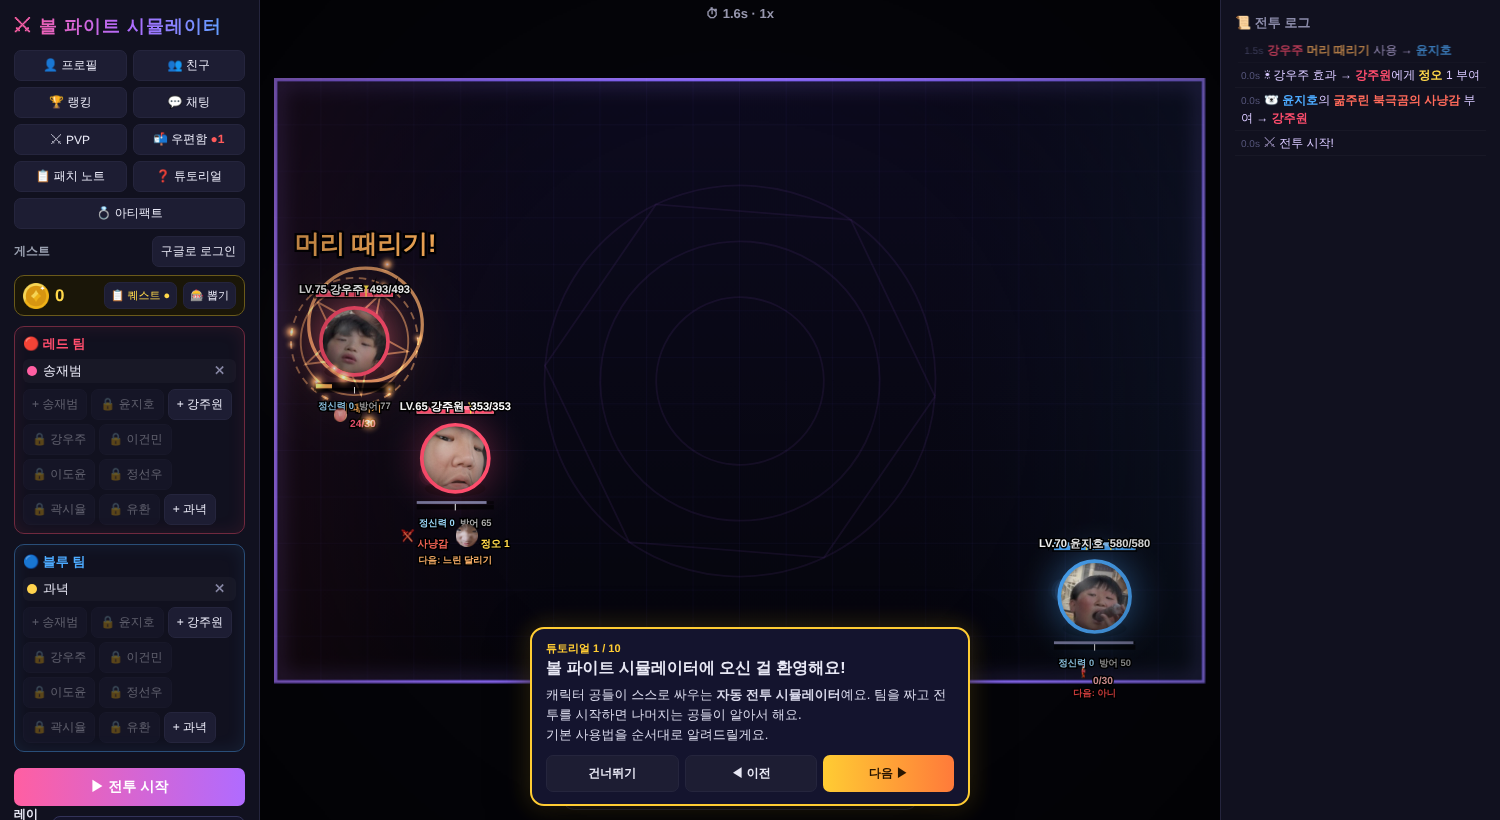
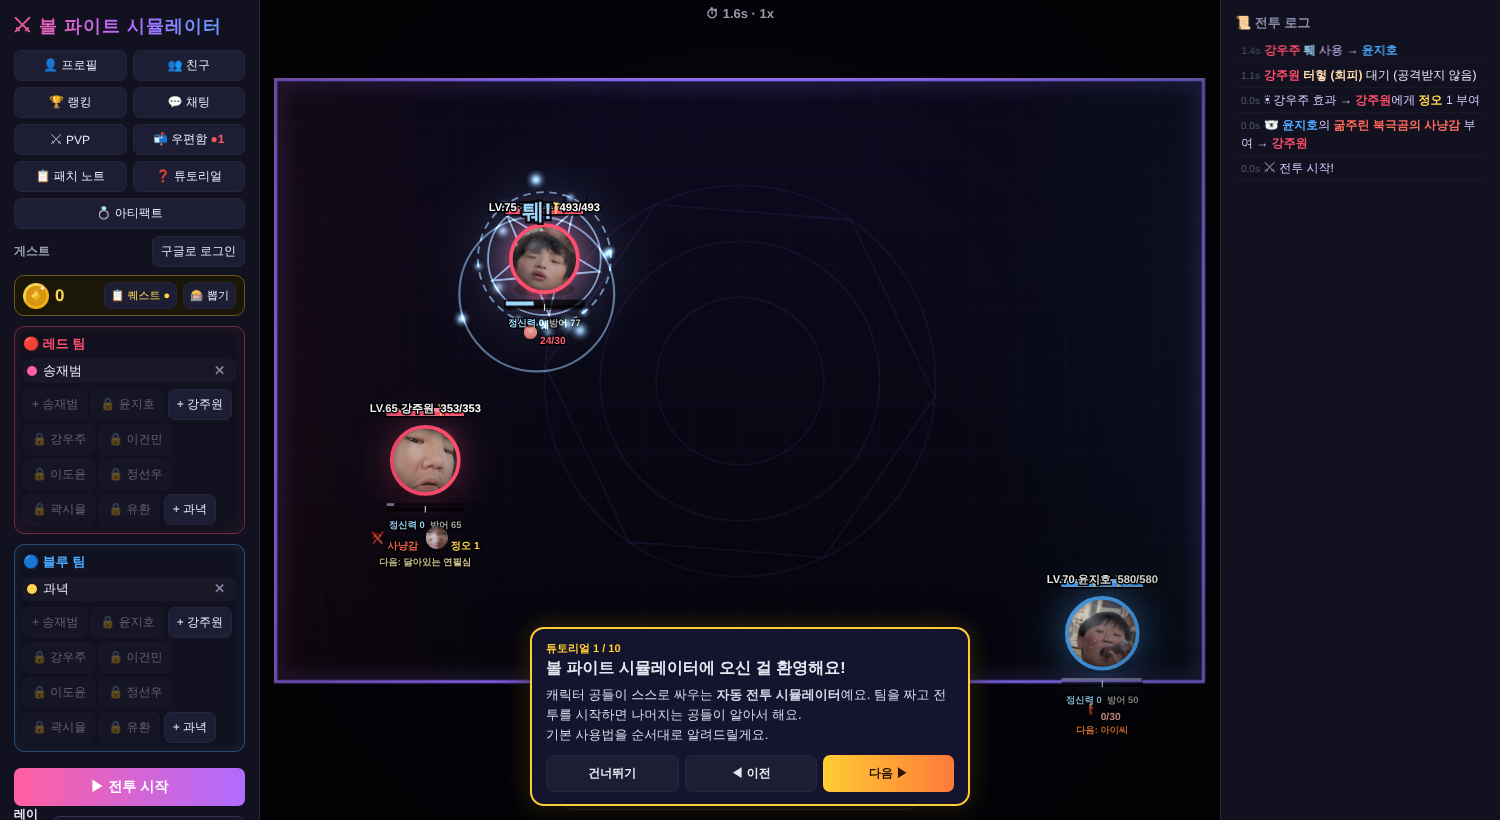
Cerberus bite VFX remake: three hellhound jaws lunge and snap
Claude-Session: https://claude.ai/code/session_011zGi9gVJQ1Coo7UsSWyUEJ

Changed region(s): [[0.184, 0.2134, 0.4293, 0.7012], [0.828, 0.0305, 0.9813, 0.2134], [0.6747, 0.6402, 0.7667, 0.9146]]

diff --git a/index.html b/index.html
@@ -2865,7 +2865,7 @@ function hitCoin(u, t, pow, i, heads, crit) {
   } else if (f.type === 'cerberus') {
     // 세 머리가 동시에 물어뜯음: 위아래 이빨이 맞물리며 피가 튐
     const ang = Math.atan2(t.y - f.y, t.x - f.x), big = u.sk === 'cerBite';
-    slashes.push({ bite: true, x: t.x, y: t.y, tr: t.r, ang, big, life: 0.55, max: 0.55 });
+    slashes.push({ bite: true, x: t.x, y: t.y, tr: t.r, ang, big, life: 0.8, max: 0.8 });
     for (let k = 0; k < Math.round(26 * QUALITY) + 6; k++) { const a = ang + rand(-1.3, 1.3), sp = rand(200, 620); particles.push({ x: t.x, y: t.y, vx: Math.cos(a) * sp, vy: Math.sin(a) * sp - 60, life: rand(0.35, 0.7), max: 0.7, size: rand(3, 8), color: Math.random() < 0.7 ? '#c8001a' : '#ff4a5a', drag: 0.93, g: 520, kind: 'glow', rot: 0 }); }
     shake = Math.max(shake, big ? 18 : 12); if (big) doFlash('#c8001a', 0.25);
   } else if (f.type === 'targetking') {
@@ -4430,22 +4430,60 @@ function render() {
     const k = sl.life / sl.max, p = 1 - k, e2 = 1 - Math.pow(1 - p, 3);
     const sweep = 2.4, a0 = sl.ang - sl.dir * sweep / 2, a1 = a0 + sl.dir * sweep * e2; // 휘두르는 각도
     if (sl.bite) {
-      // 세 쌍의 턱이 위아래에서 맞물림
-      const close = Math.min(1, p / 0.3), fade = p < 0.3 ? 1 : 1 - (p - 0.3) / 0.7;
+      // 지옥견의 세 머리: 벌린 아가리(불타는 목구멍)로 돌진 → 콱 맞물림 → 송곳니 자국 · 피 · 붉은 충격
+      const SN = 0.34, lunge = Math.min(1, p / SN), snap = p < SN ? 0 : Math.min(1, (p - SN) / 0.66), fade = p < 0.55 ? 1 : 1 - (p - 0.55) / 0.45;
+      const op = p < SN * 0.55 ? Math.min(1, p / (SN * 0.25)) : Math.max(0, 1 - (p - SN * 0.55) / (SN * 0.45)); // 벌림 → 닫힘
+      const L = sl.tr * (sl.big ? 1.55 : 1.3), jit = p > SN && p < SN + 0.12 ? (Math.random() - 0.5) * 6 : 0;
+      if (!sl.snapped && p >= SN) { sl.snapped = true; // 맞물리는 순간 파편
+        for (let k = 0; k < Math.round(18 * QUALITY) + 6; k++) { const aa = sl.ang + rand(-1.6, 1.6), sp = rand(150, 520); particles.push({ x: sl.x, y: sl.y, vx: Math.cos(aa) * sp, vy: Math.sin(aa) * sp - 80, life: rand(0.4, 0.8), max: 0.8, size: rand(2, 5), color: Math.random() < 0.5 ? '#ff7a2a' : '#ffd060', drag: 0.94, g: -60, kind: 'spark', rot: 0 }); }
+        for (let k = 0; k < 6; k++) particles.push({ x: sl.x + rand(-sl.tr, sl.tr), y: sl.y + rand(-sl.tr, sl.tr), vx: rand(-40, 40), vy: rand(-90, -30), life: rand(0.6, 1), max: 1, size: rand(16, 28), color: '#3a0608', drag: 0.96, g: 0, kind: 'smoke', a: 0.55, rot: 0 }); }
       ctx.save();
-      for (let h = -1; h <= 1; h++) {
-        const a = sl.ang + h * 0.9, cx = sl.x + Math.cos(sl.ang + Math.PI / 2) * h * sl.tr * 0.9, cy = sl.y + Math.sin(sl.ang + Math.PI / 2) * h * sl.tr * 0.9;
-        ctx.save(); ctx.translate(cx, cy); ctx.rotate(a); const W = sl.tr * (sl.big ? 1.15 : 0.95), gap = sl.tr * 1.4 * (1 - close * close) + 2;
-        for (const sgn of [-1, 1]) {
-          const y0 = sgn * gap; ctx.globalAlpha = fade;
-          const g = ctx.createLinearGradient(0, y0 + sgn * 26, 0, y0); g.addColorStop(0, 'rgba(60,0,10,0)'); g.addColorStop(1, '#3a0008');
-          ctx.fillStyle = g; ctx.beginPath(); ctx.ellipse(0, y0 + sgn * 12, W, 16, 0, 0, TAU); ctx.fill();
-          ctx.fillStyle = '#fff2e8'; ctx.strokeStyle = '#5a0010'; ctx.lineWidth = 1.2;
-          for (let k = -3; k <= 3; k++) { const x0 = k * W / 3.6, len = (k === -3 || k === 3) ? 22 : 14; ctx.beginPath(); ctx.moveTo(x0 - 6, y0); ctx.lineTo(x0, y0 - sgn * len); ctx.lineTo(x0 + 6, y0); ctx.closePath(); ctx.fill(); ctx.stroke(); }
+      // 붉은 열기 오라
+      ctx.globalCompositeOperation = 'lighter'; ctx.globalAlpha = 0.55 * fade * (0.4 + lunge * 0.6); ctx.drawImage(glow('#ff2a1a'), sl.x - sl.tr * 3, sl.y - sl.tr * 3, sl.tr * 6, sl.tr * 6); ctx.globalCompositeOperation = 'source-over';
+      const heads = [[-1, 0.62, 0.92], [0, 0, 1.1], [1, -0.62, 0.92]];
+      for (const [h, da, sc] of heads) {
+        const a = sl.ang + da, back = L * (1.25 + (1 - lunge * lunge) * 1.6), dx = Math.cos(a), dy = Math.sin(a);
+        const hx = sl.x - dx * back + jit, hy = sl.y - dy * back + jit; // 아가리 경첩 위치(뒤쪽)
+        ctx.save(); ctx.translate(hx, hy); ctx.rotate(a); ctx.scale(sc, sc); ctx.globalAlpha = fade;
+        const th = op * 0.62 + 0.02, J = L * 1.35; // 벌어진 각도, 턱 길이
+        // 목구멍: 지옥불
+        if (th > 0.06) { const g = ctx.createRadialGradient(J * 0.25, 0, 0, J * 0.25, 0, J * 0.8); g.addColorStop(0, '#fff0a0'); g.addColorStop(0.35, '#ff6a10'); g.addColorStop(0.75, '#a0000a'); g.addColorStop(1, 'rgba(60,0,0,0)');
+          ctx.fillStyle = g; ctx.beginPath(); ctx.moveTo(0, 0); ctx.lineTo(Math.cos(-th) * J, Math.sin(-th) * J); ctx.quadraticCurveTo(J * 1.05, 0, Math.cos(th) * J, Math.sin(th) * J); ctx.closePath(); ctx.fill(); }
+        for (const sg of [-1, 1]) { // -1 윗턱, +1 아래턱
+          ctx.save(); ctx.rotate(sg * th);
+          // 턱 몸통
+          const jg = ctx.createLinearGradient(0, 0, 0, sg * -L * 0.55); jg.addColorStop(0, '#5a0a12'); jg.addColorStop(1, '#12020a');
+          ctx.fillStyle = jg; ctx.strokeStyle = '#ff3a2a'; ctx.lineWidth = 2; ctx.shadowColor = '#ff2a10'; ctx.shadowBlur = 12;
+          ctx.beginPath(); ctx.moveTo(-J * 0.15, 0); ctx.lineTo(J, 0);
+          ctx.quadraticCurveTo(J * 1.08, -sg * L * 0.12, J * 0.92, -sg * L * 0.22);
+          ctx.bezierCurveTo(J * 0.6, -sg * L * 0.38, J * 0.2, -sg * L * (sg < 0 ? 0.62 : 0.4), -J * 0.15, -sg * L * (sg < 0 ? 0.5 : 0.32));
+          ctx.closePath(); ctx.fill(); ctx.stroke(); ctx.shadowBlur = 0;
+          // 잇몸 선
+          ctx.strokeStyle = '#c0102a'; ctx.lineWidth = 3; ctx.beginPath(); ctx.moveTo(0, 0); ctx.lineTo(J * 0.98, 0); ctx.stroke();
+          // 이빨: 끝쪽 큰 송곳니 + 톱니
+          ctx.fillStyle = '#fff4e6'; ctx.strokeStyle = '#4a0008'; ctx.lineWidth = 1;
+          const N = 7;
+          for (let k = 0; k < N; k++) { const x0 = J * (0.1 + k * 0.84 / (N - 1)), canine = k === N - 2, w = canine ? 9 : 5.5, len = canine ? L * 0.42 : L * (0.14 + 0.05 * (k % 2));
+            const tg = ctx.createLinearGradient(x0, 0, x0, sg * len); tg.addColorStop(0, '#d8c8b8'); tg.addColorStop(0.6, '#fffaf0'); tg.addColorStop(1, canine && snap > 0 ? '#c8001a' : '#ffffff'); ctx.fillStyle = tg;
+            ctx.beginPath(); ctx.moveTo(x0 - w, 0); ctx.quadraticCurveTo(x0 - w * 0.2, sg * len * 0.6, x0 + w * 0.35, sg * len); ctx.quadraticCurveTo(x0 + w * 0.5, sg * len * 0.4, x0 + w, 0); ctx.closePath(); ctx.fill(); ctx.stroke(); }
+          ctx.restore();
         }
+        // 눈: 불타는 붉은 눈
+        if (true) { const ex = J * 0.05, ey = -L * 0.42; ctx.globalCompositeOperation = 'lighter'; ctx.drawImage(glow('#ff3a10'), ex - 16, ey - 16, 32, 32); ctx.fillStyle = '#ffe08a'; ctx.beginPath(); ctx.ellipse(ex, ey, 6, 2.6, -0.3, 0, TAU); ctx.fill(); ctx.globalCompositeOperation = 'source-over'; }
         ctx.restore();
       }
-      if (p > 0.28) { const q = (p - 0.28) / 0.72; ctx.globalCompositeOperation = 'lighter'; ctx.globalAlpha = (1 - q) * 0.9; ctx.drawImage(glow('#ff1a3a'), sl.x - sl.tr * 2.5, sl.y - sl.tr * 2.5, sl.tr * 5, sl.tr * 5); ctx.strokeStyle = '#ff3a4a'; ctx.lineWidth = 4 * (1 - q); ctx.beginPath(); ctx.arc(sl.x, sl.y, sl.tr * (1.2 + q * 1.8), 0, TAU); ctx.stroke(); }
+      if (snap > 0) {
+        const q = snap; ctx.globalCompositeOperation = 'lighter';
+        // 맞물림 섬광 + 충격파 2겹
+        ctx.globalAlpha = Math.max(0, 1 - q * 3.5); ctx.drawImage(glow('#ffffff'), sl.x - sl.tr * 2, sl.y - sl.tr * 2, sl.tr * 4, sl.tr * 4);
+        ctx.globalAlpha = (1 - q) * 0.9; ctx.drawImage(glow('#ff1a2a'), sl.x - sl.tr * 3.2, sl.y - sl.tr * 3.2, sl.tr * 6.4, sl.tr * 6.4);
+        for (const [rr, col, lw] of [[1.1 + q * 2.6, '#ff3a2a', 6], [0.8 + q * 1.6, '#ffb060', 3]]) { ctx.strokeStyle = col; ctx.lineWidth = lw * (1 - q) + 0.5; ctx.beginPath(); ctx.arc(sl.x, sl.y, sl.tr * rr, 0, TAU); ctx.stroke(); }
+        // 송곳니 자국 (세 쌍)
+        ctx.globalCompositeOperation = 'source-over'; ctx.globalAlpha = Math.min(1, (1 - q) * 1.6);
+        for (const [h, da] of [[-1, 0.62], [0, 0], [1, -0.62]]) { const a = sl.ang + da + Math.PI, px = sl.x + Math.cos(a) * sl.tr * 0.35, py = sl.y + Math.sin(a) * sl.tr * 0.35;
+          for (const s2 of [-1, 1]) { const ox = px + Math.cos(a + Math.PI / 2) * s2 * sl.tr * 0.32, oy = py + Math.sin(a + Math.PI / 2) * s2 * sl.tr * 0.32;
+            ctx.fillStyle = '#5a0008'; ctx.beginPath(); ctx.ellipse(ox, oy, 5, 3, a, 0, TAU); ctx.fill(); ctx.fillStyle = '#e0001e'; ctx.beginPath(); ctx.ellipse(ox, oy + 4 * q * 3, 2.4, 3 + q * 8, 0, 0, TAU); ctx.fill(); } }
+      }
       ctx.restore(); continue;
     }
     if (sl.reticle) {
@@ -5435,6 +5473,7 @@ const UPG_FX = {
 // ================== 패치 노트 ==================
 // 업데이트할 때마다 맨 위에 항목을 추가 → 처음 접속할 때 자동으로 한 번 표시됨
 const PATCH_NOTES = [
+  { v: '7.3', date: '2026-11-20', items: ['케로베로스 물어뜯기 이펙트 리메이크: 불타는 아가리를 벌린 세 머리가 돌진해 맞물림 · 송곳니 자국 · 피와 불티 · 붉은 충격파'] },
   { v: '7.2', date: '2026-11-20', items: ['레이드 보스 공격 이펙트 강화: 과녁의 왕(금빛 조준선 · 과녁 충격파) · 케로베로스(세 턱이 물어뜯음) · 강우주 - 암흑진화(어둠 촉수 · 붕괴) · 과거의 강주원(글리치 일격)'] },
   { v: '7.1', date: '2026-11-20', items: ['유환 공격 이펙트 변경: 노랗게 물든 송곳들이 진동하다 꽂힘 (인정합니노 · 도박수는 7개)'] },
   { v: '7.0', date: '2026-11-20', items: ['곽시율 주먹 이펙트 퀄리티 향상: 말아 쥔 손가락 · 엄지 · 입체 음영 · 보라 기운'] },

diff --git a/test/index.html b/test/index.html
@@ -2866,7 +2866,7 @@ function hitCoin(u, t, pow, i, heads, crit) {
   } else if (f.type === 'cerberus') {
     // 세 머리가 동시에 물어뜯음: 위아래 이빨이 맞물리며 피가 튐
     const ang = Math.atan2(t.y - f.y, t.x - f.x), big = u.sk === 'cerBite';
-    slashes.push({ bite: true, x: t.x, y: t.y, tr: t.r, ang, big, life: 0.55, max: 0.55 });
+    slashes.push({ bite: true, x: t.x, y: t.y, tr: t.r, ang, big, life: 0.8, max: 0.8 });
     for (let k = 0; k < Math.round(26 * QUALITY) + 6; k++) { const a = ang + rand(-1.3, 1.3), sp = rand(200, 620); particles.push({ x: t.x, y: t.y, vx: Math.cos(a) * sp, vy: Math.sin(a) * sp - 60, life: rand(0.35, 0.7), max: 0.7, size: rand(3, 8), color: Math.random() < 0.7 ? '#c8001a' : '#ff4a5a', drag: 0.93, g: 520, kind: 'glow', rot: 0 }); }
     shake = Math.max(shake, big ? 18 : 12); if (big) doFlash('#c8001a', 0.25);
   } else if (f.type === 'targetking') {
@@ -4431,22 +4431,60 @@ function render() {
     const k = sl.life / sl.max, p = 1 - k, e2 = 1 - Math.pow(1 - p, 3);
     const sweep = 2.4, a0 = sl.ang - sl.dir * sweep / 2, a1 = a0 + sl.dir * sweep * e2; // 휘두르는 각도
     if (sl.bite) {
-      // 세 쌍의 턱이 위아래에서 맞물림
-      const close = Math.min(1, p / 0.3), fade = p < 0.3 ? 1 : 1 - (p - 0.3) / 0.7;
+      // 지옥견의 세 머리: 벌린 아가리(불타는 목구멍)로 돌진 → 콱 맞물림 → 송곳니 자국 · 피 · 붉은 충격
+      const SN = 0.34, lunge = Math.min(1, p / SN), snap = p < SN ? 0 : Math.min(1, (p - SN) / 0.66), fade = p < 0.55 ? 1 : 1 - (p - 0.55) / 0.45;
+      const op = p < SN * 0.55 ? Math.min(1, p / (SN * 0.25)) : Math.max(0, 1 - (p - SN * 0.55) / (SN * 0.45)); // 벌림 → 닫힘
+      const L = sl.tr * (sl.big ? 1.55 : 1.3), jit = p > SN && p < SN + 0.12 ? (Math.random() - 0.5) * 6 : 0;
+      if (!sl.snapped && p >= SN) { sl.snapped = true; // 맞물리는 순간 파편
+        for (let k = 0; k < Math.round(18 * QUALITY) + 6; k++) { const aa = sl.ang + rand(-1.6, 1.6), sp = rand(150, 520); particles.push({ x: sl.x, y: sl.y, vx: Math.cos(aa) * sp, vy: Math.sin(aa) * sp - 80, life: rand(0.4, 0.8), max: 0.8, size: rand(2, 5), color: Math.random() < 0.5 ? '#ff7a2a' : '#ffd060', drag: 0.94, g: -60, kind: 'spark', rot: 0 }); }
+        for (let k = 0; k < 6; k++) particles.push({ x: sl.x + rand(-sl.tr, sl.tr), y: sl.y + rand(-sl.tr, sl.tr), vx: rand(-40, 40), vy: rand(-90, -30), life: rand(0.6, 1), max: 1, size: rand(16, 28), color: '#3a0608', drag: 0.96, g: 0, kind: 'smoke', a: 0.55, rot: 0 }); }
       ctx.save();
-      for (let h = -1; h <= 1; h++) {
-        const a = sl.ang + h * 0.9, cx = sl.x + Math.cos(sl.ang + Math.PI / 2) * h * sl.tr * 0.9, cy = sl.y + Math.sin(sl.ang + Math.PI / 2) * h * sl.tr * 0.9;
-        ctx.save(); ctx.translate(cx, cy); ctx.rotate(a); const W = sl.tr * (sl.big ? 1.15 : 0.95), gap = sl.tr * 1.4 * (1 - close * close) + 2;
-        for (const sgn of [-1, 1]) {
-          const y0 = sgn * gap; ctx.globalAlpha = fade;
-          const g = ctx.createLinearGradient(0, y0 + sgn * 26, 0, y0); g.addColorStop(0, 'rgba(60,0,10,0)'); g.addColorStop(1, '#3a0008');
-          ctx.fillStyle = g; ctx.beginPath(); ctx.ellipse(0, y0 + sgn * 12, W, 16, 0, 0, TAU); ctx.fill();
-          ctx.fillStyle = '#fff2e8'; ctx.strokeStyle = '#5a0010'; ctx.lineWidth = 1.2;
-          for (let k = -3; k <= 3; k++) { const x0 = k * W / 3.6, len = (k === -3 || k === 3) ? 22 : 14; ctx.beginPath(); ctx.moveTo(x0 - 6, y0); ctx.lineTo(x0, y0 - sgn * len); ctx.lineTo(x0 + 6, y0); ctx.closePath(); ctx.fill(); ctx.stroke(); }
+      // 붉은 열기 오라
+      ctx.globalCompositeOperation = 'lighter'; ctx.globalAlpha = 0.55 * fade * (0.4 + lunge * 0.6); ctx.drawImage(glow('#ff2a1a'), sl.x - sl.tr * 3, sl.y - sl.tr * 3, sl.tr * 6, sl.tr * 6); ctx.globalCompositeOperation = 'source-over';
+      const heads = [[-1, 0.62, 0.92], [0, 0, 1.1], [1, -0.62, 0.92]];
+      for (const [h, da, sc] of heads) {
+        const a = sl.ang + da, back = L * (1.25 + (1 - lunge * lunge) * 1.6), dx = Math.cos(a), dy = Math.sin(a);
+        const hx = sl.x - dx * back + jit, hy = sl.y - dy * back + jit; // 아가리 경첩 위치(뒤쪽)
+        ctx.save(); ctx.translate(hx, hy); ctx.rotate(a); ctx.scale(sc, sc); ctx.globalAlpha = fade;
+        const th = op * 0.62 + 0.02, J = L * 1.35; // 벌어진 각도, 턱 길이
+        // 목구멍: 지옥불
+        if (th > 0.06) { const g = ctx.createRadialGradient(J * 0.25, 0, 0, J * 0.25, 0, J * 0.8); g.addColorStop(0, '#fff0a0'); g.addColorStop(0.35, '#ff6a10'); g.addColorStop(0.75, '#a0000a'); g.addColorStop(1, 'rgba(60,0,0,0)');
+          ctx.fillStyle = g; ctx.beginPath(); ctx.moveTo(0, 0); ctx.lineTo(Math.cos(-th) * J, Math.sin(-th) * J); ctx.quadraticCurveTo(J * 1.05, 0, Math.cos(th) * J, Math.sin(th) * J); ctx.closePath(); ctx.fill(); }
+        for (const sg of [-1, 1]) { // -1 윗턱, +1 아래턱
+          ctx.save(); ctx.rotate(sg * th);
+          // 턱 몸통
+          const jg = ctx.createLinearGradient(0, 0, 0, sg * -L * 0.55); jg.addColorStop(0, '#5a0a12'); jg.addColorStop(1, '#12020a');
+          ctx.fillStyle = jg; ctx.strokeStyle = '#ff3a2a'; ctx.lineWidth = 2; ctx.shadowColor = '#ff2a10'; ctx.shadowBlur = 12;
+          ctx.beginPath(); ctx.moveTo(-J * 0.15, 0); ctx.lineTo(J, 0);
+          ctx.quadraticCurveTo(J * 1.08, -sg * L * 0.12, J * 0.92, -sg * L * 0.22);
+          ctx.bezierCurveTo(J * 0.6, -sg * L * 0.38, J * 0.2, -sg * L * (sg < 0 ? 0.62 : 0.4), -J * 0.15, -sg * L * (sg < 0 ? 0.5 : 0.32));
+          ctx.closePath(); ctx.fill(); ctx.stroke(); ctx.shadowBlur = 0;
+          // 잇몸 선
+          ctx.strokeStyle = '#c0102a'; ctx.lineWidth = 3; ctx.beginPath(); ctx.moveTo(0, 0); ctx.lineTo(J * 0.98, 0); ctx.stroke();
+          // 이빨: 끝쪽 큰 송곳니 + 톱니
+          ctx.fillStyle = '#fff4e6'; ctx.strokeStyle = '#4a0008'; ctx.lineWidth = 1;
+          const N = 7;
+          for (let k = 0; k < N; k++) { const x0 = J * (0.1 + k * 0.84 / (N - 1)), canine = k === N - 2, w = canine ? 9 : 5.5, len = canine ? L * 0.42 : L * (0.14 + 0.05 * (k % 2));
+            const tg = ctx.createLinearGradient(x0, 0, x0, sg * len); tg.addColorStop(0, '#d8c8b8'); tg.addColorStop(0.6, '#fffaf0'); tg.addColorStop(1, canine && snap > 0 ? '#c8001a' : '#ffffff'); ctx.fillStyle = tg;
+            ctx.beginPath(); ctx.moveTo(x0 - w, 0); ctx.quadraticCurveTo(x0 - w * 0.2, sg * len * 0.6, x0 + w * 0.35, sg * len); ctx.quadraticCurveTo(x0 + w * 0.5, sg * len * 0.4, x0 + w, 0); ctx.closePath(); ctx.fill(); ctx.stroke(); }
+          ctx.restore();
         }
+        // 눈: 불타는 붉은 눈
+        if (true) { const ex = J * 0.05, ey = -L * 0.42; ctx.globalCompositeOperation = 'lighter'; ctx.drawImage(glow('#ff3a10'), ex - 16, ey - 16, 32, 32); ctx.fillStyle = '#ffe08a'; ctx.beginPath(); ctx.ellipse(ex, ey, 6, 2.6, -0.3, 0, TAU); ctx.fill(); ctx.globalCompositeOperation = 'source-over'; }
         ctx.restore();
       }
-      if (p > 0.28) { const q = (p - 0.28) / 0.72; ctx.globalCompositeOperation = 'lighter'; ctx.globalAlpha = (1 - q) * 0.9; ctx.drawImage(glow('#ff1a3a'), sl.x - sl.tr * 2.5, sl.y - sl.tr * 2.5, sl.tr * 5, sl.tr * 5); ctx.strokeStyle = '#ff3a4a'; ctx.lineWidth = 4 * (1 - q); ctx.beginPath(); ctx.arc(sl.x, sl.y, sl.tr * (1.2 + q * 1.8), 0, TAU); ctx.stroke(); }
+      if (snap > 0) {
+        const q = snap; ctx.globalCompositeOperation = 'lighter';
+        // 맞물림 섬광 + 충격파 2겹
+        ctx.globalAlpha = Math.max(0, 1 - q * 3.5); ctx.drawImage(glow('#ffffff'), sl.x - sl.tr * 2, sl.y - sl.tr * 2, sl.tr * 4, sl.tr * 4);
+        ctx.globalAlpha = (1 - q) * 0.9; ctx.drawImage(glow('#ff1a2a'), sl.x - sl.tr * 3.2, sl.y - sl.tr * 3.2, sl.tr * 6.4, sl.tr * 6.4);
+        for (const [rr, col, lw] of [[1.1 + q * 2.6, '#ff3a2a', 6], [0.8 + q * 1.6, '#ffb060', 3]]) { ctx.strokeStyle = col; ctx.lineWidth = lw * (1 - q) + 0.5; ctx.beginPath(); ctx.arc(sl.x, sl.y, sl.tr * rr, 0, TAU); ctx.stroke(); }
+        // 송곳니 자국 (세 쌍)
+        ctx.globalCompositeOperation = 'source-over'; ctx.globalAlpha = Math.min(1, (1 - q) * 1.6);
+        for (const [h, da] of [[-1, 0.62], [0, 0], [1, -0.62]]) { const a = sl.ang + da + Math.PI, px = sl.x + Math.cos(a) * sl.tr * 0.35, py = sl.y + Math.sin(a) * sl.tr * 0.35;
+          for (const s2 of [-1, 1]) { const ox = px + Math.cos(a + Math.PI / 2) * s2 * sl.tr * 0.32, oy = py + Math.sin(a + Math.PI / 2) * s2 * sl.tr * 0.32;
+            ctx.fillStyle = '#5a0008'; ctx.beginPath(); ctx.ellipse(ox, oy, 5, 3, a, 0, TAU); ctx.fill(); ctx.fillStyle = '#e0001e'; ctx.beginPath(); ctx.ellipse(ox, oy + 4 * q * 3, 2.4, 3 + q * 8, 0, 0, TAU); ctx.fill(); } }
+      }
       ctx.restore(); continue;
     }
     if (sl.reticle) {
@@ -5436,6 +5474,7 @@ const UPG_FX = {
 // ================== 패치 노트 ==================
 // 업데이트할 때마다 맨 위에 항목을 추가 → 처음 접속할 때 자동으로 한 번 표시됨
 const PATCH_NOTES = [
+  { v: '7.3', date: '2026-11-20', items: ['케로베로스 물어뜯기 이펙트 리메이크: 불타는 아가리를 벌린 세 머리가 돌진해 맞물림 · 송곳니 자국 · 피와 불티 · 붉은 충격파'] },
   { v: '7.2', date: '2026-11-20', items: ['레이드 보스 공격 이펙트 강화: 과녁의 왕(금빛 조준선 · 과녁 충격파) · 케로베로스(세 턱이 물어뜯음) · 강우주 - 암흑진화(어둠 촉수 · 붕괴) · 과거의 강주원(글리치 일격)'] },
   { v: '7.1', date: '2026-11-20', items: ['유환 공격 이펙트 변경: 노랗게 물든 송곳들이 진동하다 꽂힘 (인정합니노 · 도박수는 7개)'] },
   { v: '7.0', date: '2026-11-20', items: ['곽시율 주먹 이펙트 퀄리티 향상: 말아 쥔 손가락 · 엄지 · 입체 음영 · 보라 기운'] },
